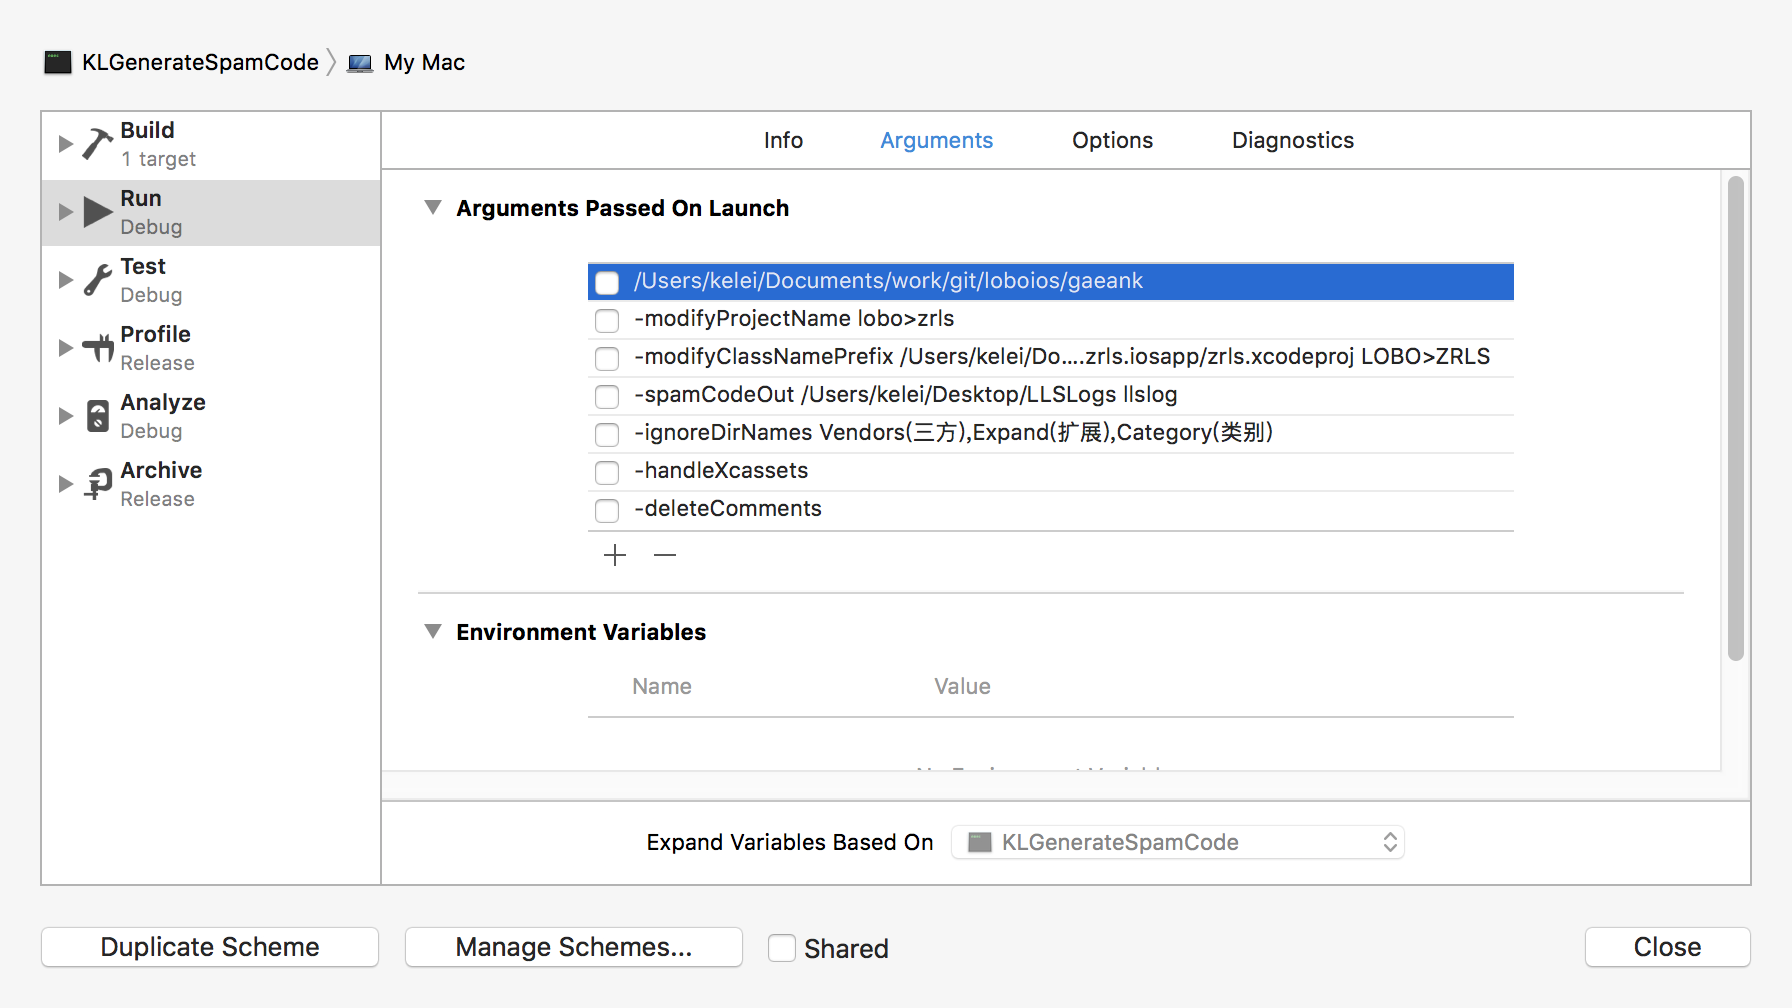
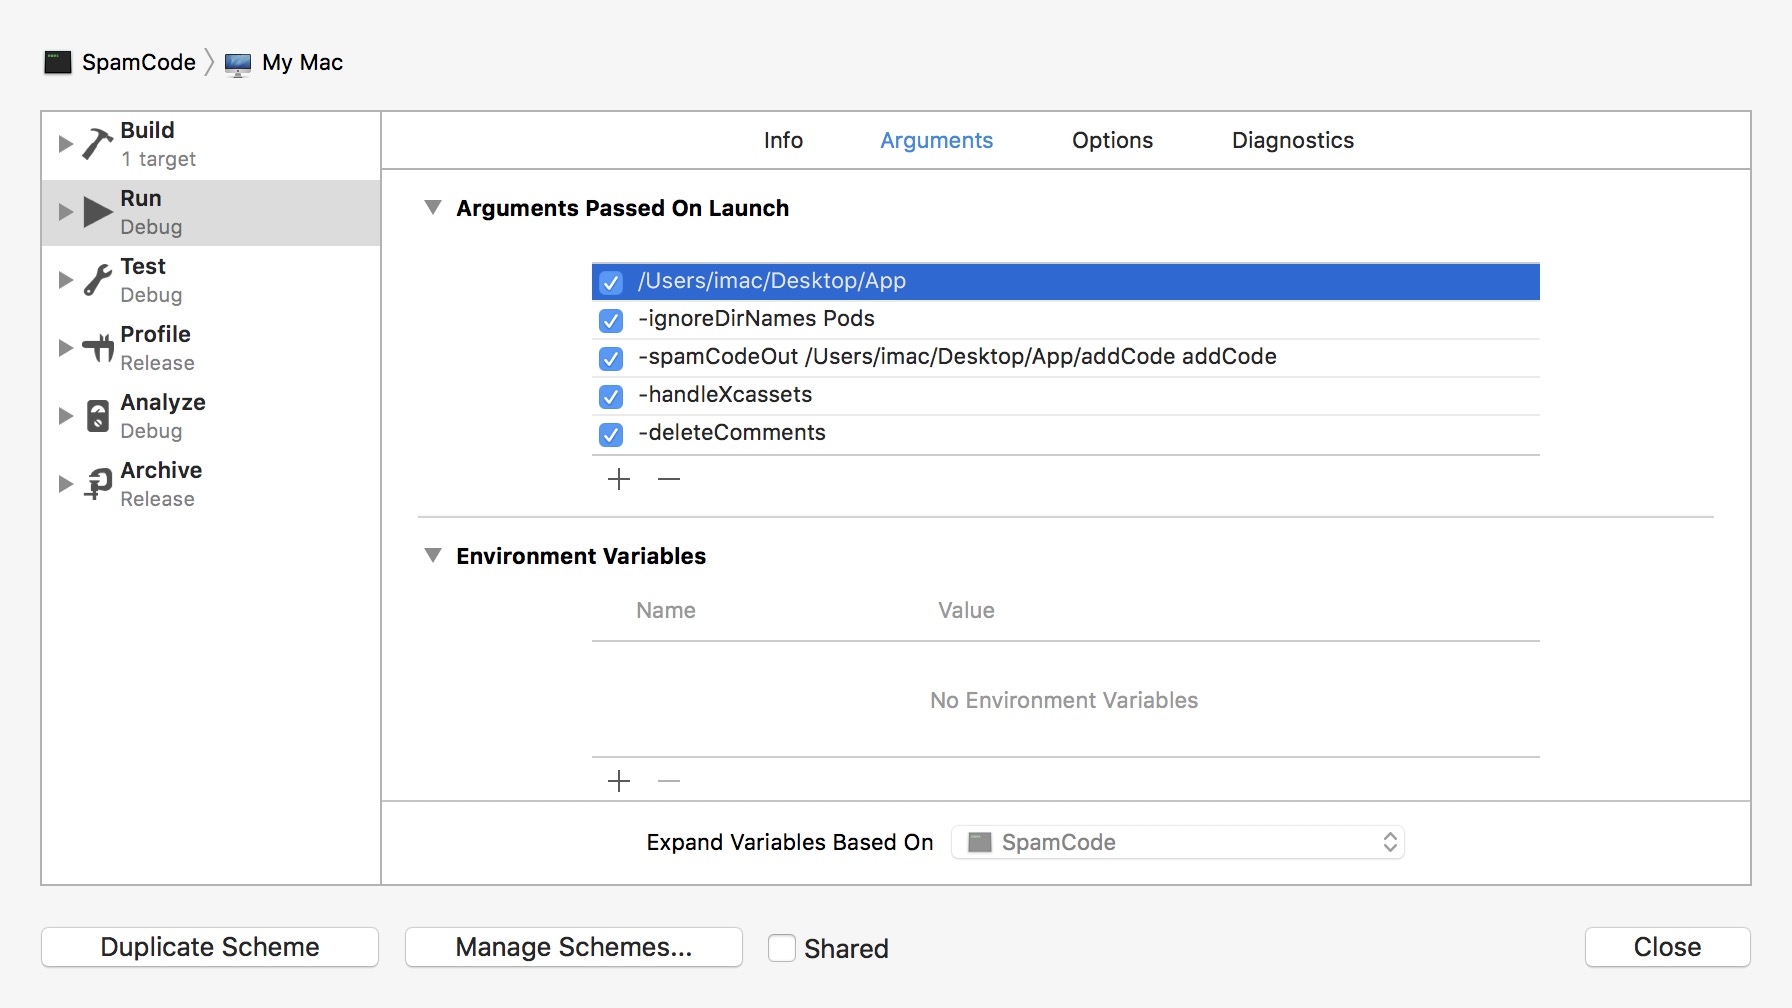
ojbk

diff --git a/SpamCode/README.md b/SpamCode/README.md
@@ -37,11 +37,20 @@ $ ./GenerateSpamCode \
 2. 压缩工程目录下所有 png 文件，`find . -iname "*.png" -exec echo {} \; -exec convert {} {} \;`
 
 ## 使用经验
+```
+/Users/imac/Desktop/App
+-ignoreDirNames Pods
+-spamCodeOut /Users/imac/Desktop/App/addCode addCode
+-handleXcassets
+-deleteComments
+```
 1. 修改工程名
-2. 修改类名前缀
-3. 修改图片文件 Hash 值
+2. 修改图片文件 Hash 值
+3. 生成垃圾代码
 4. 修改 .xcassets 中的图片文件名
-5. 用别的电脑打包
+5. 删除工程目录下 .h .m .swift 文件中的注释和空行
+6. 用别的电脑打包
+
 
 ## 已知问题
 - 生成的垃圾代码文件可能是 .m 文件中实现的私有类，编译垃圾代码可能会报错，删除该垃圾代码 .h .m 文件及可。
